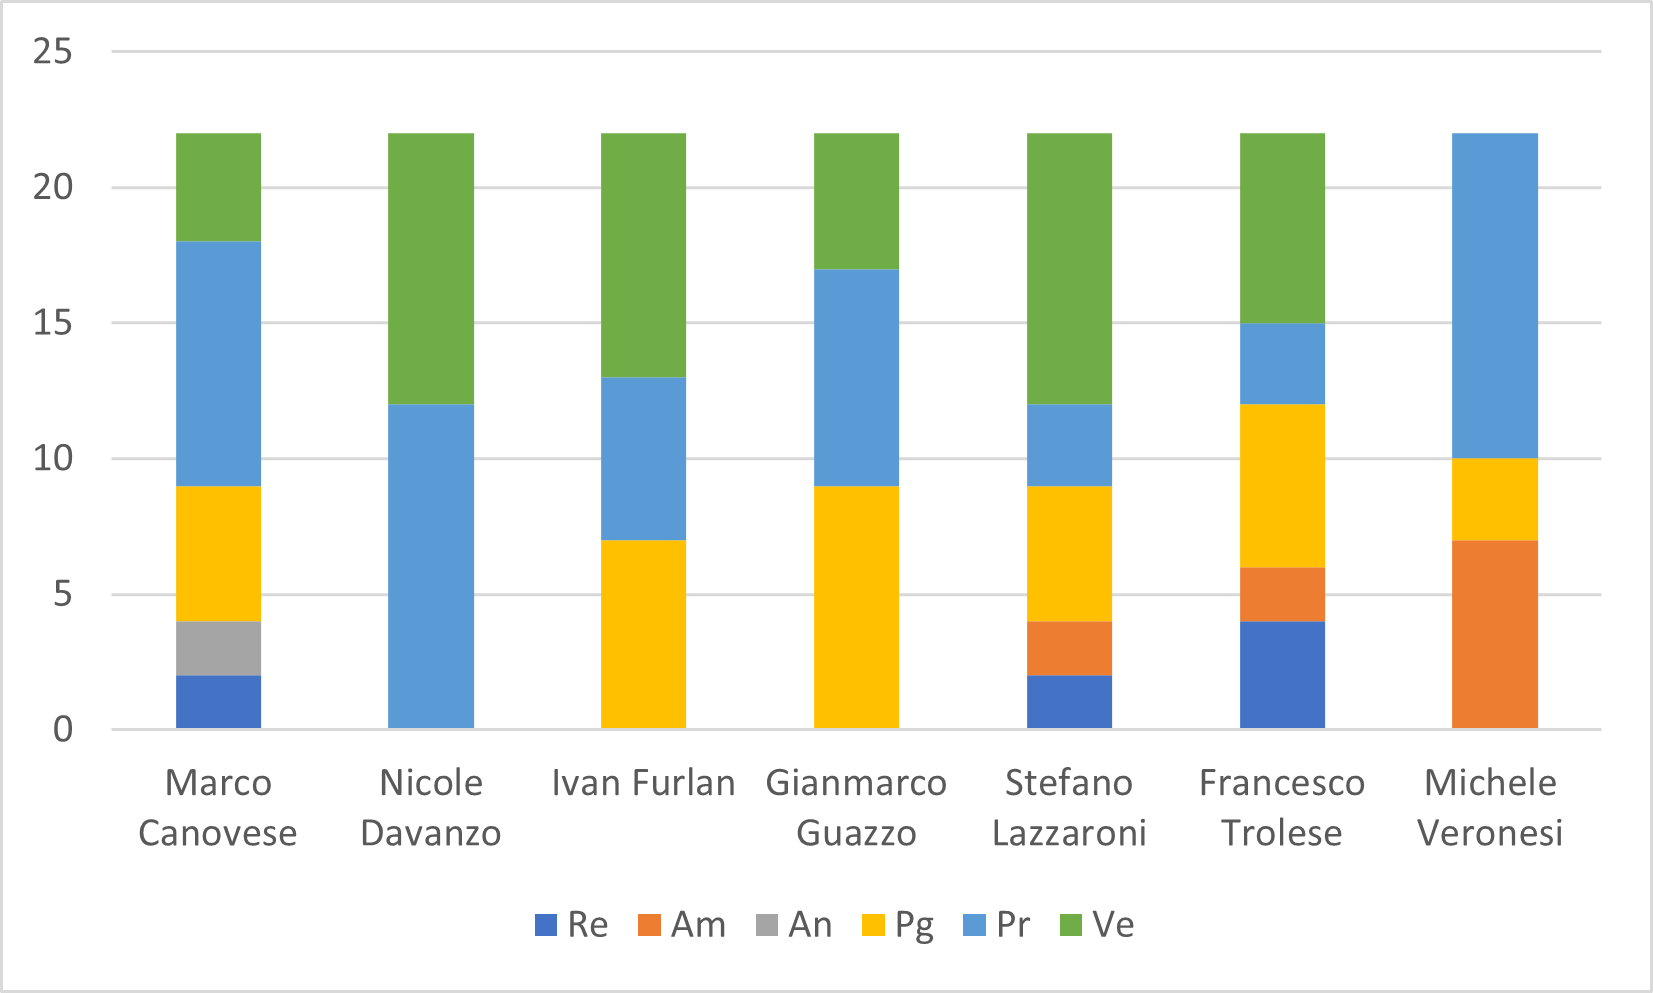
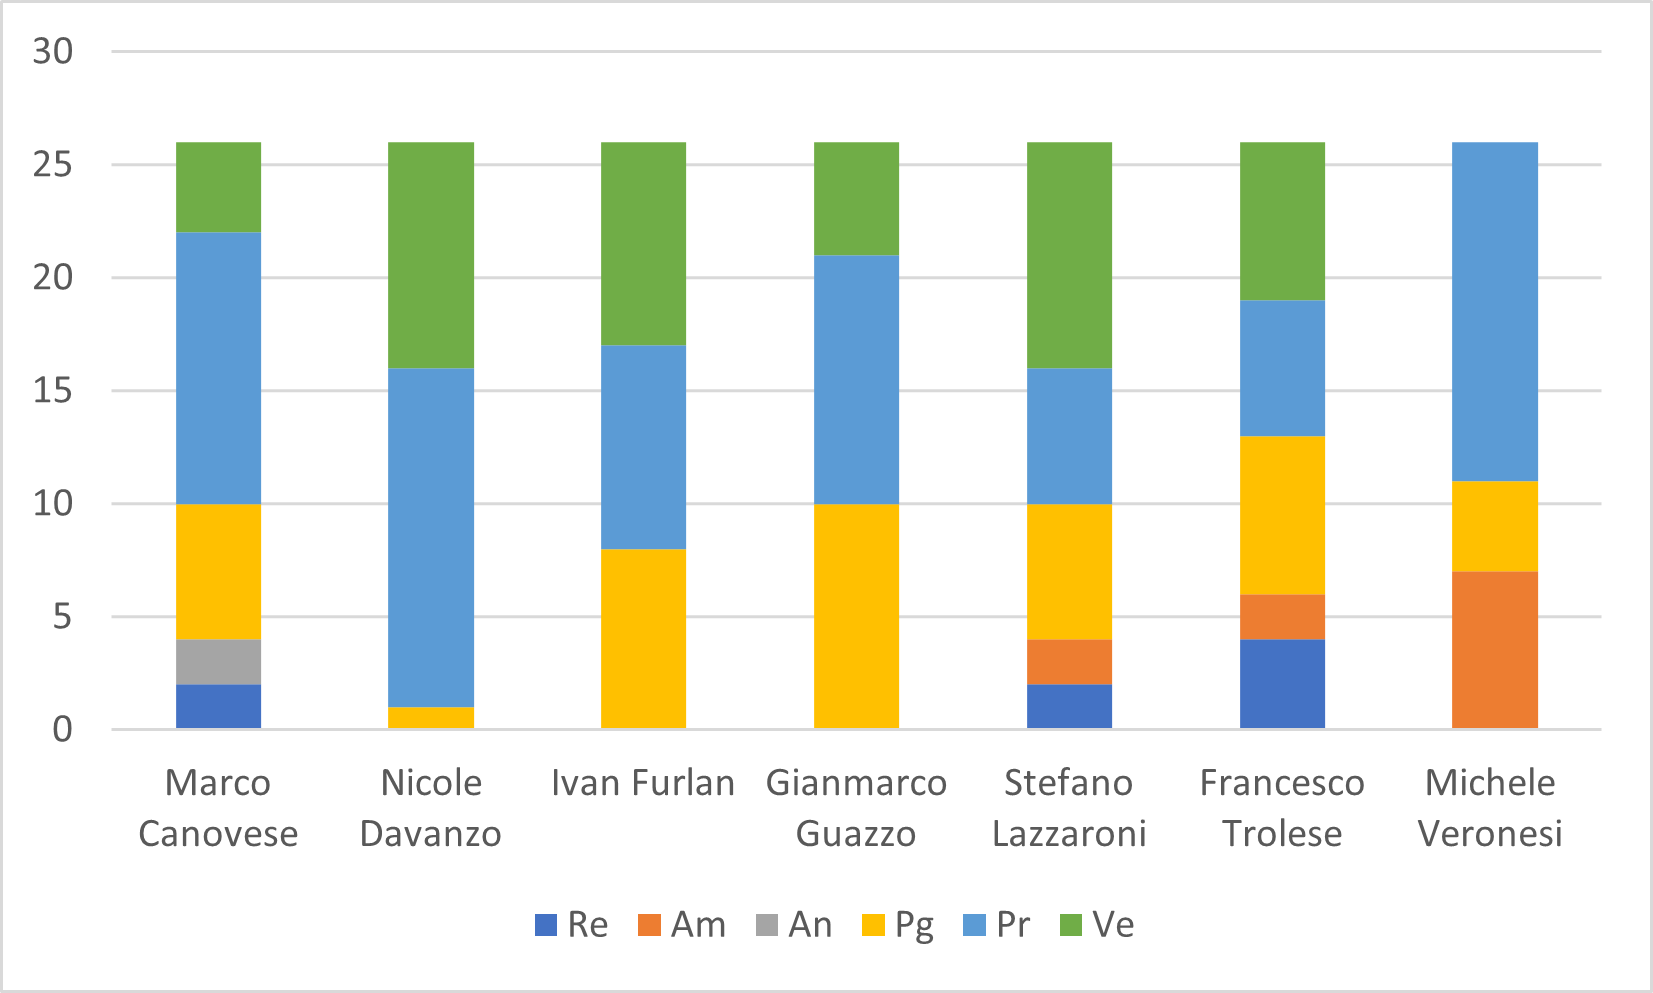
Aggiustato preventivo fasi 5 e 6 e fix organigramma

diff --git a/Esterni/PianoDiProgetto/res/sections/preventivo/preventivo.tex b/Esterni/PianoDiProgetto/res/sections/preventivo/preventivo.tex
@@ -789,28 +789,28 @@ La suddivisione oraria dei ruoli per ogni membro del gruppo dovrà rispettare le
 				\endfirsthead
 				
 				\hline
-				Marco Canovese & 2 & 0 & 2 & 5 & 9 & 4 & 22\\
+				Marco Canovese & 2 & 0 & 2 & 6 & 12 & 4 & 26\\
 				\hline
 				\hline
-				Nicole Davanzo & 0 & 0 & 0 & 0 & 12 & 10 & 22\\
+				Nicole Davanzo & 0 & 0 & 0 & 1 & 15 & 10 & 26\\
 				\hline
 				\hline
-				Ivan Furlan & 0 & 0 & 0 & 7 & 6 & 9 & 22\\
+				Ivan Furlan & 0 & 0 & 0 & 8 & 9 & 9 & 26\\
 				\hline
 				\hline
-				Gianmarco Guazzo & 0 & 0 & 0 & 9 & 8 & 5 & 22\\
+				Gianmarco Guazzo & 0 & 0 & 0 & 10 & 11 & 5 & 26\\
 				\hline
 				\hline
-				Stefano Lazzaroni & 2 & 2 & 0 & 5 & 3 & 10 & 22\\
+				Stefano Lazzaroni & 2 & 2 & 0 & 6 & 6 & 10 & 26\\
 				\hline
 				\hline
-				Francesco Trolese & 4 & 2 & 0 & 6 & 3 & 7 & 22\\
+				Francesco Trolese & 4 & 2 & 0 & 7 & 6 & 7 & 26\\
 				\hline
 				\hline
-				Michele Veronesi & 0 & 7 & 0 & 3 & 12 & 0 & 22\\
+				Michele Veronesi & 0 & 7 & 0 & 4 & 15 & 0 & 26\\
 				\hline 
 				\hline
-				Totale & 8 & 11 & 2 & 35 & 53 & 45 & 154\\
+				Totale & 8 & 11 & 2 & 42 & 74 & 45 & 182\\
 				\hline 
 				\rowcolor{white}
 				\caption{Tabella contenente il prospetto orario preventivato per la fase di progettazione completa e prima implementazione di base}
@@ -847,16 +847,16 @@ La suddivisione oraria dei ruoli per ogni membro del gruppo dovrà rispettare le
 				Analista & 2 & 50,00\\
 				\hline
 				\hline
-				Progettista & 35 & 770,00\\
+				Progettista & 42 & 924,00\\
 				\hline
 				\hline
-				Programmatore & 53 & 795,00\\
+				Programmatore & 74 & 1.110,00\\
 				\hline
 				\hline
 				Verificatore & 45 & 675,00\\
 				\hline
 				\hline
-				\textbf{Totale} & 154 & 2.750,00\\
+				\textbf{Totale} & 154 & 3.219,00\\
 				\hline
 				\rowcolor{white}
 				\caption{Tabella contenente il prospetto economico in riferimento al prospetto orario}
@@ -884,28 +884,28 @@ La suddivisione oraria dei ruoli per ogni membro del gruppo dovrà rispettare le
 				\endfirsthead
 				
 				\hline
-				Marco Canovese & 0 & 0 & 0 & 8 & 8 & 12 & 28\\
+				Marco Canovese & 0 & 0 & 0 & 7 & 5 & 12 & 24\\
 				\hline
 				\hline
-				Nicole Davanzo & 1 & 5 & 0 & 8 & 4 & 10 & 28\\
+				Nicole Davanzo & 1 & 5 & 0 & 7 & 1 & 10 & 24\\
 				\hline
 				\hline
-				Ivan Furlan & 0 & 3 & 0 & 8 & 11 & 6 & 28\\
+				Ivan Furlan & 0 & 3 & 0 & 7 & 8 & 6 & 24\\
 				\hline
 				\hline
-				Gianmarco Guazzo & 4 & 0 & 0 & 6 & 9 & 9 & 28\\
+				Gianmarco Guazzo & 4 & 0 & 0 & 5 & 6 & 9 & 24\\
 				\hline
 				\hline
-				Stefano Lazzaroni & 0 & 0 & 0 & 9 & 9 & 10 & 28\\
+				Stefano Lazzaroni & 0 & 0 & 0 & 8 & 6 & 10 & 24\\
 				\hline
 				\hline
-				Francesco Trolese & 0 & 0 & 0 & 7 & 11 & 10 & 28\\
+				Francesco Trolese & 0 & 0 & 0 & 6 & 8 & 10 & 24\\
 				\hline
 				\hline
-				Michele Veronesi & 3 & 0 & 0 & 11 & 3 & 11 & 28\\
+				Michele Veronesi & 3 & 0 & 0 & 10 & 0 & 11 & 24\\
 				\hline 
 				\hline
-				Totale & 8 & 8 & 0 & 57 & 55 & 68 & 196\\
+				Totale & 8 & 8 & 0 & 50 & 34 & 68 & 168\\
 				\hline
 				\rowcolor{white}
 				\caption{Tabella contenente il prospetto orario preventivato per la fase di termine dell'implementazione e raffinamento generale}
@@ -942,16 +942,16 @@ La suddivisione oraria dei ruoli per ogni membro del gruppo dovrà rispettare le
 				Analista & - & -\\
 				\hline
 				\hline
-				Progettista & 57 & 1.254,00\\
+				Progettista & 50 & 1.100,00\\
 				\hline
 				\hline
-				Programmatore & 55 & 825,00\\
+				Programmatore & 34 & 510,00\\
 				\hline
 				\hline
 				Verificatore & 68 & 1.020,00\\
 				\hline
 				\hline
-				\textbf{Totale} & 196 & 3.499,00\\
+				\textbf{Totale} & 168 & 3.030,00\\
 				\hline
 				\rowcolor{white}
 				\caption{Tabella contenente il prospetto economico in riferimento al prospetto orario}

diff --git a/Esterni/PianoDiProgetto/res/sections/organigramma/organigramma.tex b/Esterni/PianoDiProgetto/res/sections/organigramma/organigramma.tex
@@ -11,7 +11,6 @@
 		\textbf{Nominativo}        &
 		\textbf{Data di Redazione} &
 		\textbf{Firma}                                              \\
-		\newline Ivan Furlan       & 11-01-2020 & \newline \newline \\
 		\newline Gianmarco Guazzo  & 11-01-2020 & \newline \newline \\
 		\newline Francesco Trolese & 11-01-2020 & \newline \newline \\
 		\hline
@@ -30,8 +29,9 @@
 		\textbf{Data di Redazione} &
 		\textbf{Firma}                                              \\
 		\hline
-		\newline Nome Cognome      & 11-01-2020 & \newline \newline \\
-		\newline Nome Cognome      & 11-01-2020 & \newline \newline \\
+		\newline Stefano Lazzaroni      & 11-01-2020 & \newline \newline \\
+		\newline Tullio Vardanega      & \newline & \newline \newline \\
+		\newline Riccardo Cardin      & \newline & \newline \newline \\
 	\end{longtable}
 \end{center}
 
